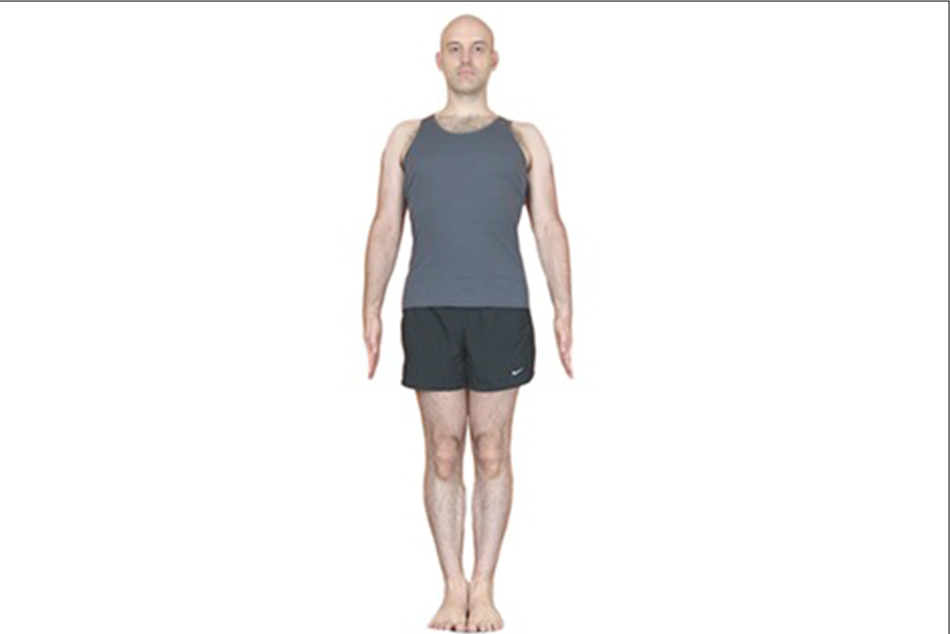
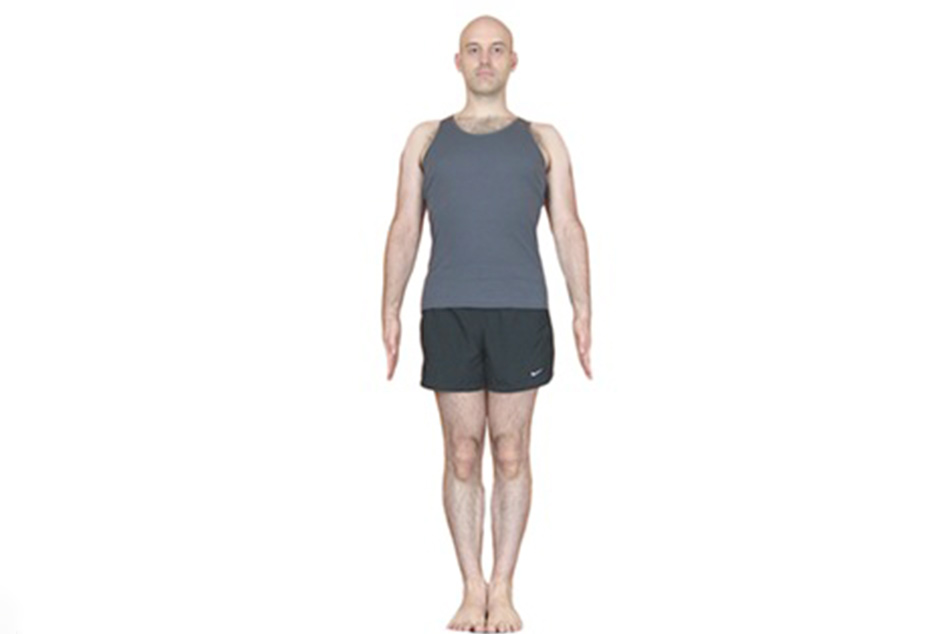
Added new-sized images and changed front matter on each pose.md

Changed region(s): [[0.0, 0.0, 1.0, 1.0], [0.4884, 0.5394, 0.5189, 0.5694]]

diff --git a/src/poses/sideplank.md b/src/poses/sideplank.md
@@ -8,11 +8,11 @@ type: balancing
 firstused: 20th century
 wikipedia: https://en.wikipedia.org/wiki/Utthita_Vasisthasana
 image: 
-  url: /images/sideplank.jpg
+  url: /images/small/sideplank.jpg
   cite: <a href="https://www.freepik.com/free-photo/flexible-young-woman-warming-yoga-map-living-room-standing-side-plank-looking-online-aerobic-video-laptop-computer_15854019.htm#page=1&query=side%20plank%20pose&position=4&from_view=search">photo<a> by <a href="https://www.freepik.com/dcstudio">DCstudio</a> from freepik
   alt: lady on mat doing Side Plank inside her house.
 imageGallery:
-    -   url: /images/Yoga_PLank.jpg
+    -   url: /small/images/Yoga_PLank.jpg
         cite: <a href="https://en.wikipedia.org/wiki/Utthita_Vasisthasana#/media/File:Yoga_PLank.jpg">photo<a> by <a href="https://commons.wikimedia.org/wiki/User:OrenBochman">OrenBochman.</a> from flickr
         alt: lady doing side plank pose with a white background
     -   url: /images/twoppl_sideplank.png

diff --git a/src/poses/downdog.md b/src/poses/downdog.md
@@ -8,7 +8,7 @@ type: standing
 firstused: 18th then revised in 20th century
 wikipedia: https://en.wikipedia.org/wiki/Adho_Mukha_Shvanasana
 image: 
-  url: https://upload.wikimedia.org/wikipedia/commons/thumb/5/57/Downward-Facing-Dog.JPG/1024px-Downward-Facing-Dog.JPG
+  url: /images/small/downdog.jpg
   cite: <a href="https://en.wikipedia.org/wiki/Downward_Dog_Pose#/media/File:Downward-Facing-Dog.JPG">photo<a> by <a href="https://commons.wikimedia.org/w/index.php?title=User:Iveto&action=edit&redlink=1">Iveto</a>
   alt: woman on yoga mat doing downard dog pose
 imageGallery:

diff --git a/src/poses/warrior2.md b/src/poses/warrior2.md
@@ -8,7 +8,7 @@ type: standing
 firstused: 15th century
 wikipedia: https://en.wikipedia.org/wiki/Virabhadrasana_II
 image:
-    url: /images/pexels-kamaji-ogino-5093597.jpg
+    url: /images/small/warrior2.jpg
     cite: <a href="https://www.pexels.com/photo/young-ethnic-woman-performing-warrior-pose-near-daughter-doing-split-5093597/ by <a href="https://www.pexels.com/@kamaji-ogino">Kamaji Ogino</a> from <a href="https://www.pexels.com/">Pexels</a>
     alt: young woman performing warrior pose in living room with daughter nearby doing splits
 imageGallery:

diff --git a/src/poses/warrior1.md b/src/poses/warrior1.md
@@ -8,7 +8,7 @@ type: standing
 firstused: 15th century
 wikipedia: https://en.wikipedia.org/wiki/Virabhadrasana
 image:
-    url: /images/pexels-anna-shvets-5067946.jpg
+    url: /images/small/warrior1.jpg
     cite: <a href="https://www.pexels.com/photo/senior-man-in-orange-shirt-and-black-pants-doing-yoga-5067946/">Photo</a> by <a href="pexels.com/@shvetsa?utm_content=attributionCopyText&utm_medium=referral&utm_source=pexels">Anna Shvets</a> from Pexels
     alt: Senior Man in Orange Shirt and Black Pants Doing Yoga
 imageGallery:

diff --git a/src/poses/child.md b/src/poses/child.md
@@ -8,7 +8,7 @@ type: seated
 firstused: 19th century
 wikipedia: https://en.wikipedia.org/wiki/Balasana
 image:
-    url: /images/katee-lue-s9laK07dK2A-unsplash.jpg
+    url: /images/small/childpose.jpg
     cite: Photo by <a href="https://unsplash.com/@kateelue?utm_source=unsplash&utm_medium=referral&utm_content=creditCopyText">Katee Lue</a> on <a href="https://unsplash.com/?utm_source=unsplash&utm_medium=referral&utm_content=creditCopyText">Unsplash</a>
     alt: woman doing child pose on mat by cement wall
 imageGallery:

diff --git a/src/poses/eagle.md b/src/poses/eagle.md
@@ -8,7 +8,7 @@ type: balancing
 firstused: 19th century
 wikipedia: https://en.wikipedia.org/wiki/Garudasana
 image: 
-  url: /images/eagle-pose-garudasana.jpg
+  url: /images/small/eagle-pose-garudasana.jpg
   cite:  <a href="https://www.freepik.com/free-photo/eagle-pose-garudasana_1280313.htm?query=Garudasana[yoga%20pose">photo<a> by <a href="https://www.freepik.com/yanalya">Yanalya</a> from freepik
   alt: Young lady doing eagle pose
 imageGallery:

diff --git a/src/poses/boat.md b/src/poses/boat.md
@@ -11,7 +11,7 @@ eleventyNavigation:
     parent: seated
 wikipedia: https://en.wikipedia.org/wiki/Navasana
 image: 
-  url: /small/images/mor-shani-ALz-zUkjmY4-unsplash.jpg
+  url: /images/small/mor-shani-ALz-zUkjmY4-unsplash.jpg
   cite: <a href="https://unsplash.com/photos/ALz-zUkjmY4">photo<a> by <a href="https://unsplash.com/@morsha">Mor Shani.</a> from Unsplash
   alt: Lady doing boat yoga pose by some rocks.
 imageGallery:

diff --git a/src/poses/mountain.md b/src/poses/mountain.md
@@ -8,7 +8,7 @@ type: standing
 firstused: 20th century
 wikipedia: https://en.wikipedia.org/wiki/Tadasana
 image: 
-  url: /images/Tadasana_-_Yoga_Art_and_Science.jpg
+  url: /images/small/Tadasana_-_Yoga_Art_and_Science.jpg
   cite: <a href="https://en.wikipedia.org/wiki/Tadasana#/media/File:Tadasana_-_Yoga_Art_and_Science.jpg">Photo</a> by Witold Fitz-Simon  
   alt: A man doing mountain pose.
 imageGallery:

diff --git a/src/poses/tree.md b/src/poses/tree.md
@@ -8,7 +8,7 @@ type: balancing
 firstused: 18th century manual of Hatha Yoga
 wikipedia: https://en.wikipedia.org/wiki/Vriksasana
 image: 
-  url: /images/pexels-shvets-production-6975389.jpg
+  url: /images/small/pexels-shvets-production-6975389.jpg
   cite: Photo by SHVETS production from Pexels
   alt: full-bodied young woman practicing Tree asana during yoga lesson
 imageGallery:
